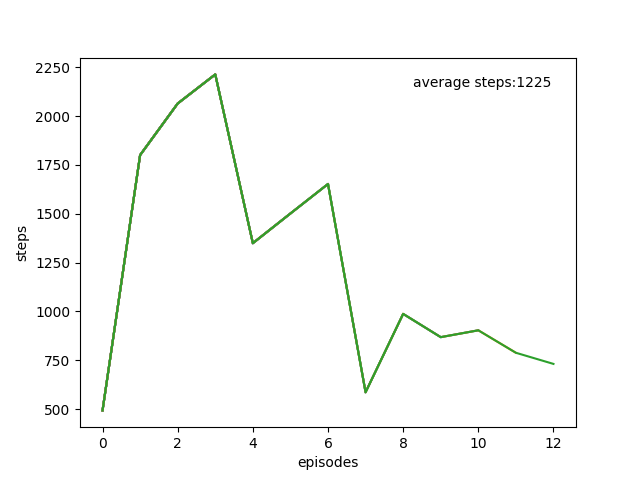
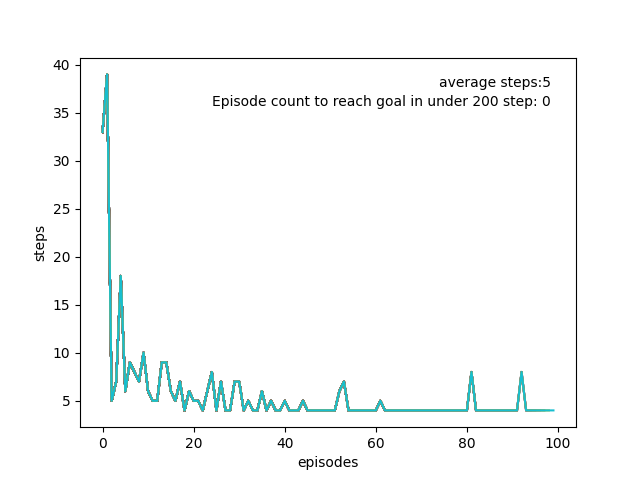
plot_learning_historyのリファクタ

diff --git a/simple_maze/maze.py b/simple_maze/maze.py
@@ -1,19 +1,27 @@
+# BOARD = [
+#     ["W", "W", "W",	"W", "W", "W", "W", "W", "W", "W", "W", "W", "W", "W", "W", "W", "W", "W", "W",	"W", "W", "W", "W"],
+#     ["W", "S", " ", " ", " ", " ", " ",	" ", " ", " ", " ", " ", "W", " ", "W", "W", " ", " ", " ", "W", " ", " ", "W"],
+#     ["W", " ", "W", "W", "W", "W", "W",	"W", " ", "W", "W", "W", " ", " ", "W", " ", " ", "W", "W", "W", " ", "W", "W"],
+#     ["W", " ", " ", " ", " ", " ", " ",	" ", " ", " ", " ", " ", " ", " ", "W", " ", " ", " ", " ", " ", " ", " ", "W"],
+#     ["W", " ", "W", "W", " ", "W", " ",	"W", "W", "W", "W", " ", "W", "W", " ", " ", "W", "W", "W", " ", " ", "W", "W"],
+#     ["W", " ", "W", " ", " ", "W", "W",	"W", " ", "W", " ", " ", " ", " ", "W", " ", " ", "W", " ", " ", " ", " ", "W"],
+#     ["W", " ", "W", " ", " ", " ", " ",	" ", " ", "W", "W", "W", " ", " ", "W", " ", "W", "W", "W", "W", " ", "W", "W"],
+#     ["W", " ", "W", " ", " ", "W", " ",	"W", " ", " ", "W", " ", " ", "W", "W", " ", " ", " ", "W", " ", " ", " ", "W"],
+#     ["W", " ", "W", " ", "W", "W", "W",	"W", " ", "W", "W", "W", " ", " ", "W", "W", "W", " ", "W", "W", "W", " ", "W"],
+#     ["W", " ", "W", " ", " ", "W", " ",	"W", " ", "W", " ", " ", " ", "W", "W", " ", "W", " ", "W", " ", " ", " ", "W"],
+#     ["W", " ", "W", " ", " ", " ", " ",	" ", " ", " ", "W", "W", " ", " ", " ", " ", " ", " ", " ", " ", " ", " ", "W"],
+#     ["W", " ", " ", " ", "W", " ", "W",	" ", "W", " ", " ", " ", " ", " ", "W", " ", " ", "W", " ", " ", "W", " ", "W"],
+#     ["W", "W", "W", " ", " ", " ", " ",	" ", "W", "W", " ", "W", "W", " ", "W", "W", "W", "W", " ", "W", "W", " ", "W"],
+#     ["W", " ", " ", " ", "W", " ", "W",	" ", " ", " ", "W", "W", " ", " ", "W", " ", " ", " ", " ", " ", " ", "G", "W"],
+#     ["W", "W", "W",	"W", "W", "W", "W", "W", "W", "W", "W", "W", "W", "W", "W", "W", "W", "W", "W",	"W", "W", "W", "W"],
+# ]
+
 BOARD = [
-    ["W", "W", "W",	"W", "W", "W", "W", "W", "W", "W", "W", "W", "W", "W", "W", "W", "W", "W", "W",	"W", "W", "W", "W"],
-    ["W", "S", " ", " ", " ", " ", " ",	" ", " ", " ", " ", " ", "W", " ", "W", "W", " ", " ", " ", "W", " ", " ", "W"],
-    ["W", " ", "W", "W", "W", "W", "W",	"W", " ", "W", "W", "W", " ", " ", "W", " ", " ", "W", "W", "W", " ", "W", "W"],
-    ["W", " ", " ", " ", " ", " ", " ",	" ", " ", " ", " ", " ", " ", " ", "W", " ", " ", " ", " ", " ", " ", " ", "W"],
-    ["W", " ", "W", "W", " ", "W", " ",	"W", "W", "W", "W", " ", "W", "W", " ", " ", "W", "W", "W", " ", " ", "W", "W"],
-    ["W", " ", "W", " ", " ", "W", "W",	"W", " ", "W", " ", " ", " ", " ", "W", " ", " ", "W", " ", " ", " ", " ", "W"],
-    ["W", " ", "W", " ", " ", " ", " ",	" ", " ", "W", "W", "W", " ", " ", "W", " ", "W", "W", "W", "W", " ", "W", "W"],
-    ["W", " ", "W", " ", " ", "W", " ",	"W", " ", " ", "W", " ", " ", "W", "W", " ", " ", " ", "W", " ", " ", " ", "W"],
-    ["W", " ", "W", " ", "W", "W", "W",	"W", " ", "W", "W", "W", " ", " ", "W", "W", "W", " ", "W", "W", "W", " ", "W"],
-    ["W", " ", "W", " ", " ", "W", " ",	"W", " ", "W", " ", " ", " ", "W", "W", " ", "W", " ", "W", " ", " ", " ", "W"],
-    ["W", " ", "W", " ", " ", " ", " ",	" ", " ", " ", "W", "W", " ", " ", " ", " ", " ", " ", " ", " ", " ", " ", "W"],
-    ["W", " ", " ", " ", "W", " ", "W",	" ", "W", " ", " ", " ", " ", " ", "W", " ", " ", "W", " ", " ", "W", " ", "W"],
-    ["W", "W", "W", " ", " ", " ", " ",	" ", "W", "W", " ", "W", "W", " ", "W", "W", "W", "W", " ", "W", "W", " ", "W"],
-    ["W", " ", " ", " ", "W", " ", "W",	" ", " ", " ", "W", "W", " ", " ", "W", " ", " ", " ", " ", " ", " ", "G", "W"],
-    ["W", "W", "W",	"W", "W", "W", "W", "W", "W", "W", "W", "W", "W", "W", "W", "W", "W", "W", "W",	"W", "W", "W", "W"],
+    ["W", "W", "W", "W", "W"],
+    ["W", "S", " ", " ", "W"],
+    ["W", " ", " ", " ", "W"],
+    ["W", " ", " ", "G", "W"],
+    ["W", "W", "W", "W", "W"],
 ]
 
 class Maze:

diff --git a/simple_maze/q_learning.py b/simple_maze/q_learning.py
@@ -16,6 +16,7 @@ class QLearning:
         self.Q = np.zeros((self.num_state, self.num_action))
         self.state = self.get_state()
         self.avg_annotation = None
+        self.annotated_flag = False
 
     def from_start(self):
         self.maze.reset()
@@ -86,20 +87,20 @@ class QLearning:
     def plot_learning_hisotry(self, filename, episode, step):
         episode_list.append(episode)
         step_list.append(step)
+        plt.xlabel("episodes")
+        plt.ylabel("steps")
         plt.plot(episode_list, step_list)
-        annotated_flag = False
-        annotation_text = None
-        if not annotated_flag:
-            for i, value in enumerate(step_list):
-                if value <= 200:
-                    annotation_text = f"Episode count to reach goal in under 200 step: {i}"
-                    plt.annotate(annotation_text, xy=(0.95, 0.9), xycoords="axes fraction", ha='right', va='top')
-                    annotated_flag = True
-                    break
+        # 平均ステップ数を注釈に追加
         avg_steps = f"average steps:{int(sum(step_list) / len(step_list))}"
         if self.avg_annotation is not None:
             self.avg_annotation.remove()
         self.avg_annotation = plt.annotate(avg_steps, xy=(0.95, 0.95), xycoords="axes fraction", ha="right", va="top")
-        plt.xlabel("episodes")
-        plt.ylabel("steps")
+        # 200step数以下に達したら一度だけ注釈を追加
+        if not self.annotated_flag:
+            for i, value in enumerate(step_list):
+                if value <= 200:
+                    annotation_text = f"Episode count to reach goal in under 200 step: {i}"
+                    plt.annotate(annotation_text, xy=(0.95, 0.9), xycoords="axes fraction", ha='right', va='top')
+                    self.annotated_flag = True
+                    break
         plt.savefig(filename)

diff --git a/simple_maze/main.py b/simple_maze/main.py
@@ -9,7 +9,7 @@ def main():
     ## Q学習で必要な条件
     
     # 何回ゴールするか
-    EPISODE_MAX = 20
+    EPISODE_MAX = 100
     # ゴールまでの打ち切りステップ数
     STEP_MAX = 3000
     # 学習率
